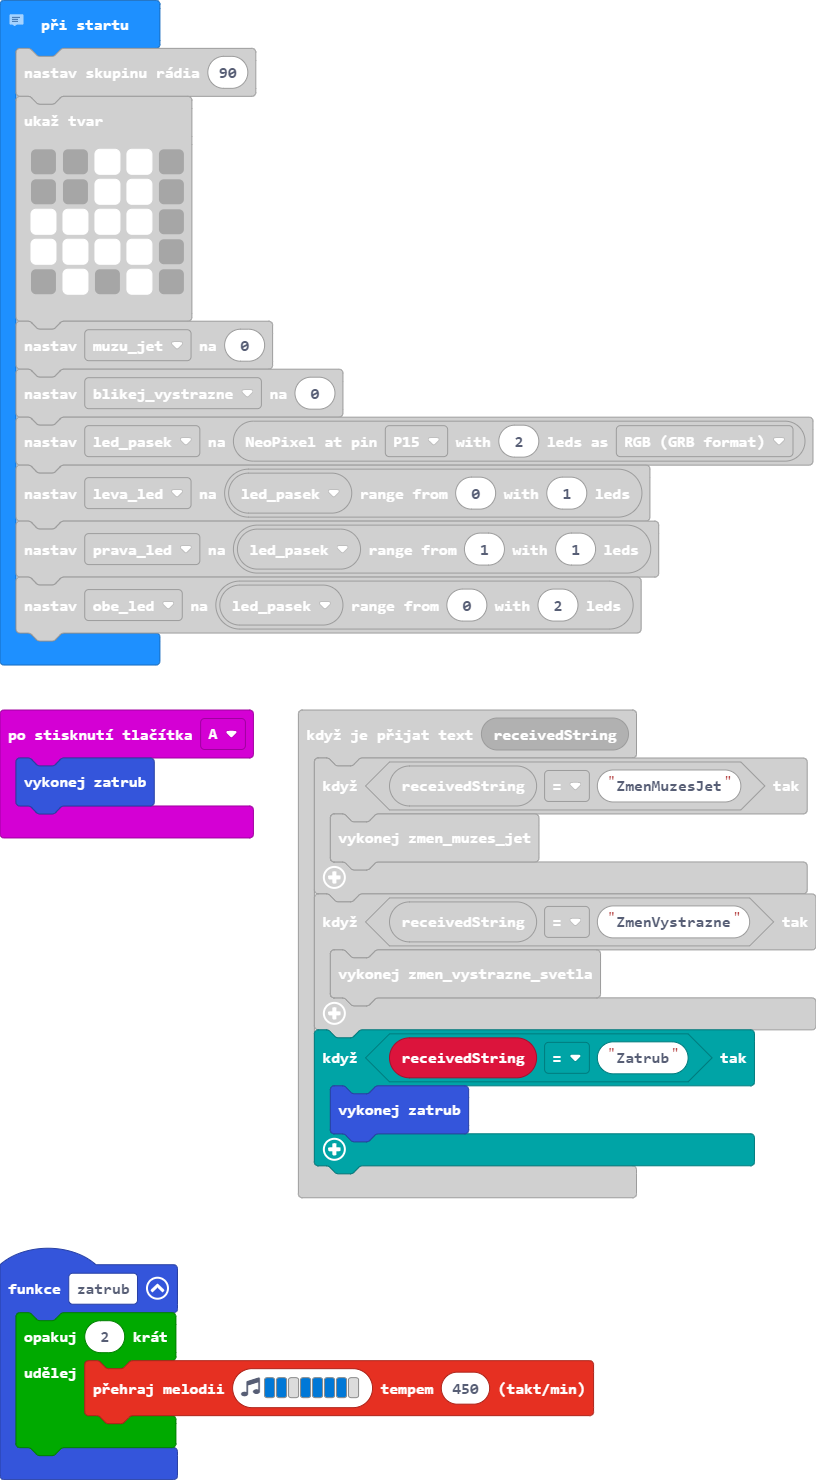
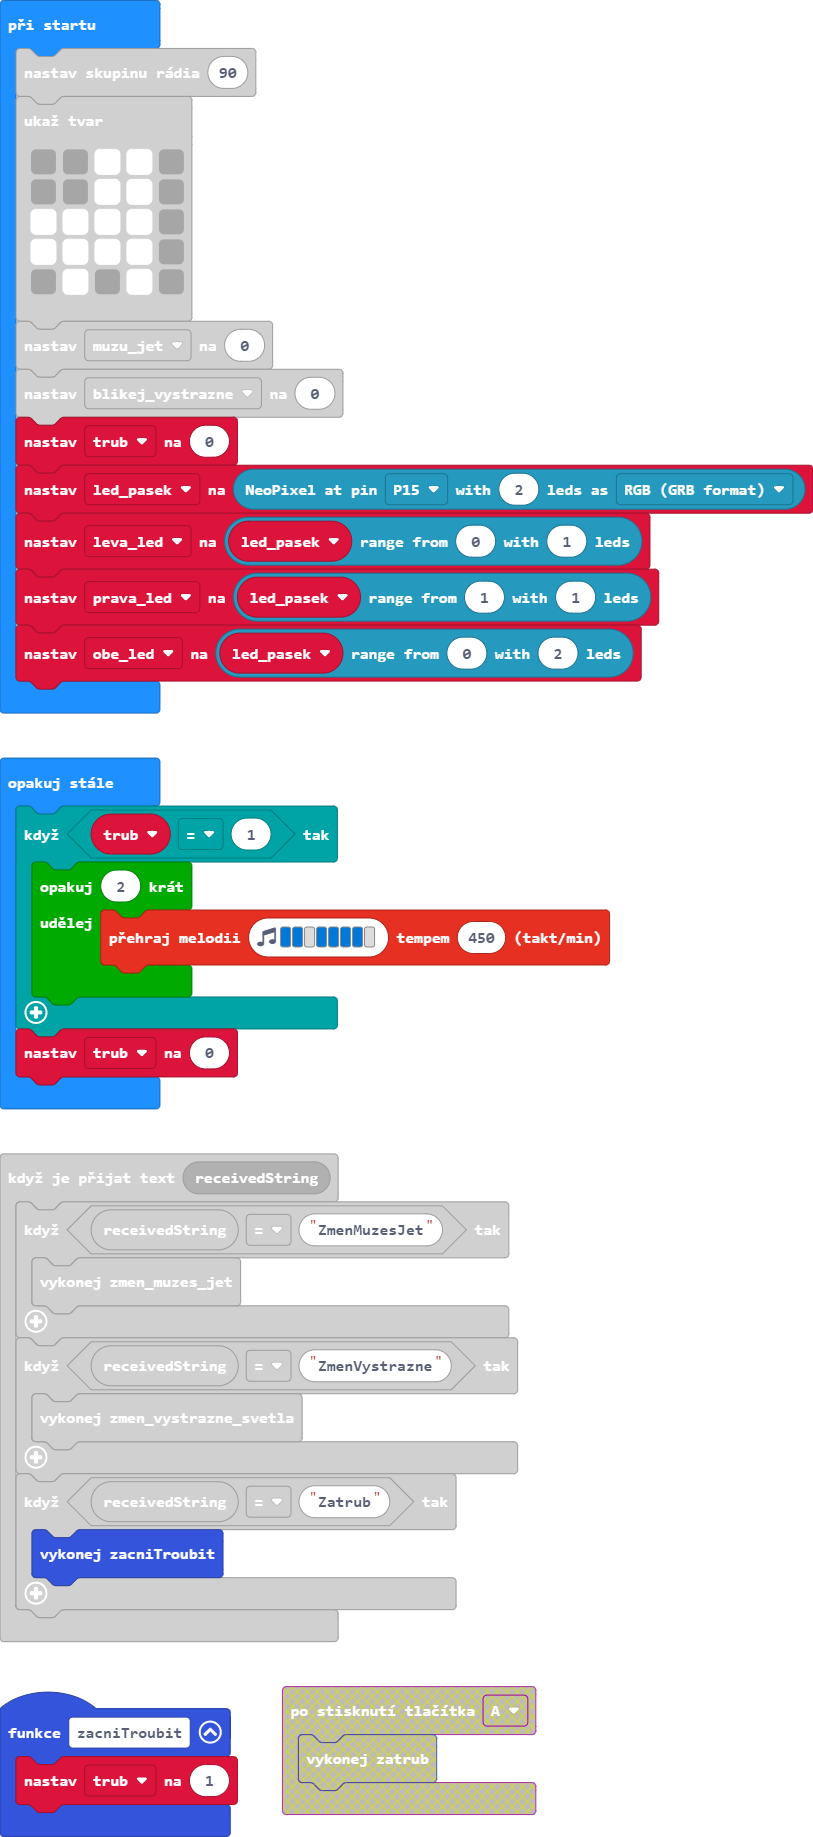
Aktualizovat main.blocks, main.ts

diff --git a/main.ts b/main.ts
@@ -1,11 +1,3 @@
-function zatrub () {
-    for (let index = 0; index < 2; index++) {
-        music.playMelody("E E - E E E E - ", 450)
-    }
-}
-input.onButtonPressed(Button.A, function () {
-    zatrub()
-})
 radio.onReceivedString(function (receivedString) {
     if (receivedString == "ZmenMuzesJet") {
         zmen_muzes_jet()
@@ -14,7 +6,7 @@ radio.onReceivedString(function (receivedString) {
         zmen_vystrazne_svetla()
     }
     if (receivedString == "Zatrub") {
-        zatrub()
+        zacniTroubit()
     }
 })
 function zmen_vystrazne_svetla () {
@@ -23,6 +15,9 @@ function zmen_vystrazne_svetla () {
     } else {
         blikej_vystrazne = 0
     }
+}
+function zacniTroubit () {
+    trub = 1
 }
 radio.onReceivedValue(function (name, value) {
     if (name == "X") {
@@ -56,12 +51,11 @@ function zmen_muzes_jet () {
             `)
     }
 }
-// Zastavit když je před překážkou.
-// BONUS: udělat něco na všechny tlačítka! :)
 let rychlost_prave_kolo = 0
 let rychlost_leve_kolo = 0
 let Y = 0
 let X = 0
+let trub = 0
 let blikej_vystrazne = 0
 let muzu_jet = 0
 radio.setGroup(90)
@@ -74,6 +68,7 @@ basic.showLeds(`
     `)
 muzu_jet = 0
 blikej_vystrazne = 0
+trub = 0
 let led_pasek = neopixel.create(DigitalPin.P15, 2, NeoPixelMode.RGB)
 let leva_led = led_pasek.range(0, 1)
 let prava_led = led_pasek.range(1, 1)
@@ -126,4 +121,12 @@ basic.forever(function () {
             }
         }
     }
+})
+basic.forever(function () {
+    if (trub == 1) {
+        for (let index = 0; index < 2; index++) {
+            music.playMelody("E E - E E E E - ", 450)
+        }
+    }
+    trub = 0
 })
